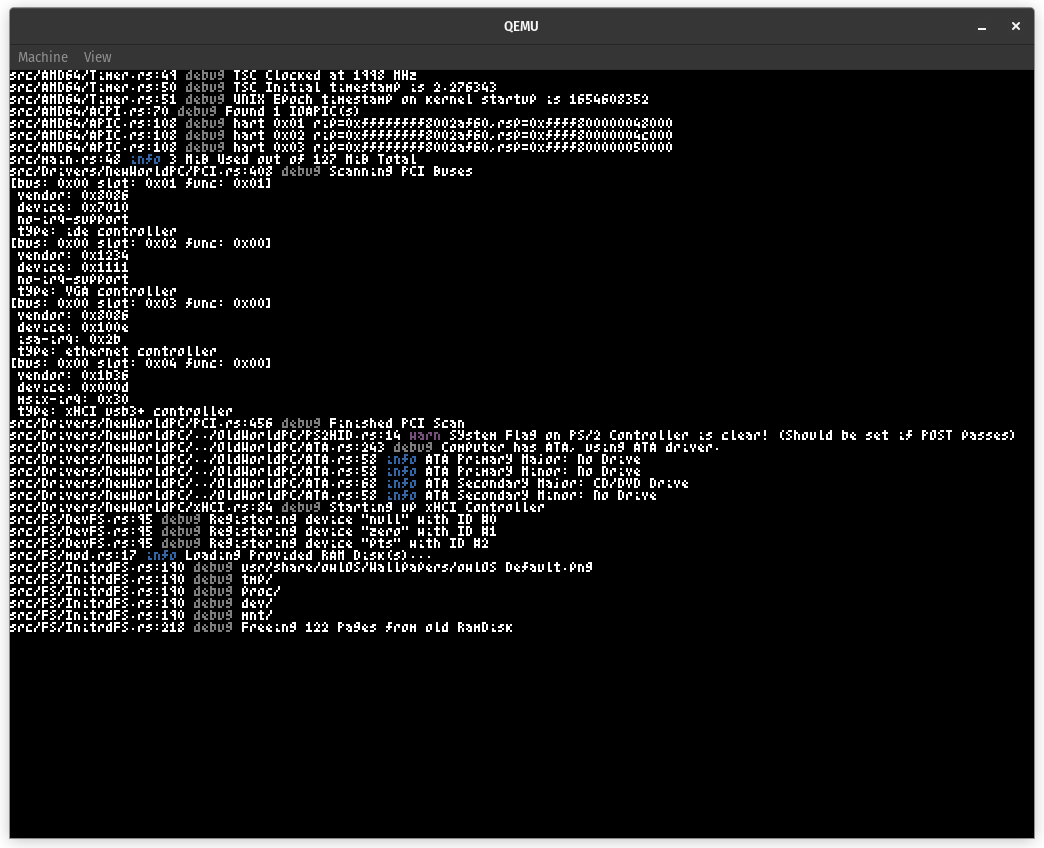
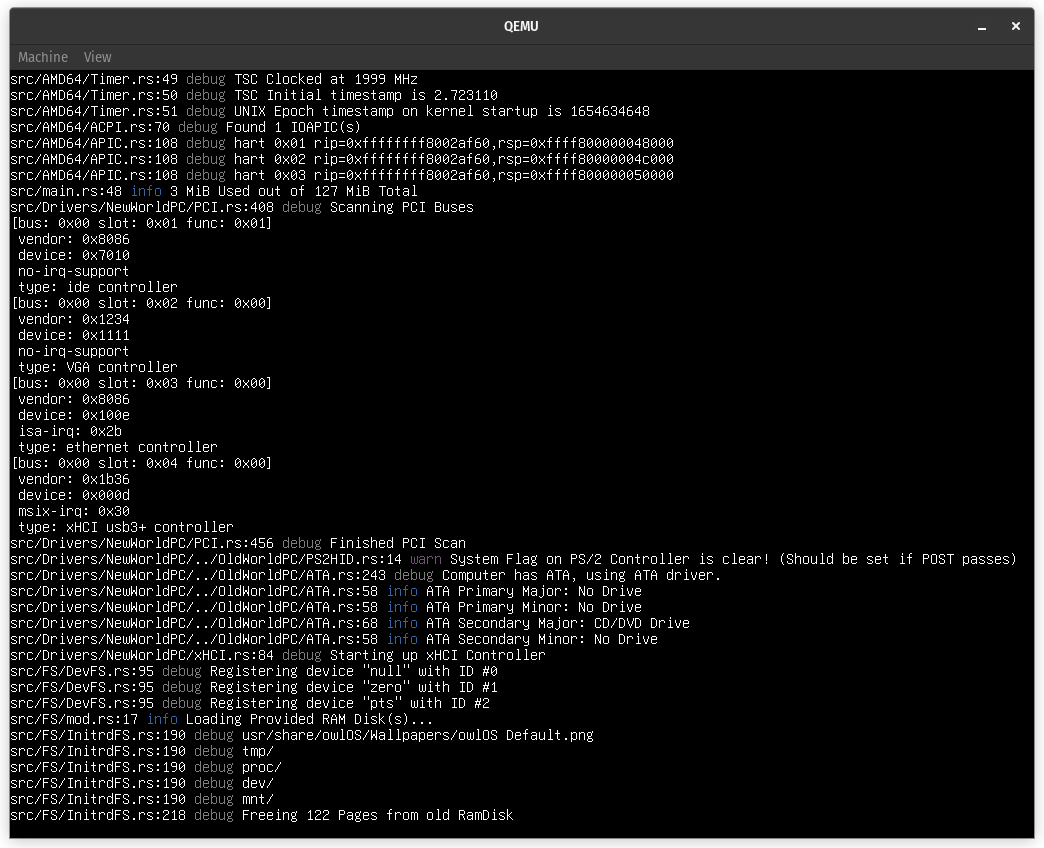
Fox Kernel: 3x6 font replaced with 8x16 font - The 3x6 font was replaced with a clearer 8x16 font - Updated Screenshot - Added parent_id to Process struct

diff --git a/Fox Kernel/src/Framebuffer.rs b/Fox Kernel/src/Framebuffer.rs
@@ -1,19 +1,6 @@
 use spin::mutex::Mutex;
 
-const FoxScript: [u16; 95] = [
-0x0000,0x2092,0x002d,0x5f7d,0x279e,0x52a5,0x7ad6,0x0012,
-0x4494,0x1491,0x0aba,0x05d0,0x1400,0x01c0,0x0400,0x12a4,
-0x2b6a,0x749a,0x752a,0x38a3,0x4f4a,0x38cf,0x3bce,0x12a7,
-0x3aae,0x49ae,0x0410,0x1410,0x4454,0x0e38,0x1511,0x10e3,
-0x73ee,0x5f7a,0x3beb,0x624e,0x3b6b,0x73cf,0x13cf,0x6b4e,
-0x5bed,0x7497,0x2b27,0x5add,0x7249,0x5b7d,0x5b6b,0x3b6e,
-0x12eb,0x4f6b,0x5aeb,0x388e,0x2497,0x6b6d,0x256d,0x5f6d,
-0x5aad,0x24ad,0x72a7,0x6496,0x4889,0x3493,0x002a,0xf000,
-0x0011,0x6b98,0x3b79,0x7270,0x7b74,0x6750,0x95d6,0xb9ee,
-0x5b59,0x6410,0xb482,0x56e8,0x6492,0x5be8,0x5b58,0x3b70,
-0x976a,0xcd6a,0x1370,0x38f0,0x64ba,0x3b68,0x2568,0x5f68,
-0x54a8,0xb9ad,0x73b8,0x64d6,0x2492,0x3593,0x03e0,
-];
+const FoxScript: &[u8; 4096] = include_bytes!("FoxScript");
 
 pub static MainFramebuffer: Mutex<Option<Framebuffer>> = Mutex::new(None);
 
@@ -51,11 +38,11 @@ impl Framebuffer {
         self.DrawRect(0,0,self.width,self.height,color);
     }
     pub fn DrawSymbol(&mut self, x: usize, y: usize, sym: u8, color: u32, scale: usize) {
-        let index: usize = (sym - b' ') as usize;
-        for i in 0..5 { // y
-            for j in 0..3 { // x
-                if (FoxScript[index] >> (i*3+j)) & 1 == 1 {
-                    self.DrawRect(x+j*scale,y+i*scale,scale,scale,color);
+        for i in 0..16 { // y
+            let row = FoxScript[(sym as usize*16)+i];
+            for j in 0..8 { // x
+                if (row & (1 << j)) != 0 {
+                    self.DrawRect(x+(7-j)*scale,y+i*scale,scale,scale,color);
                 }
             }
         }
@@ -64,12 +51,12 @@ impl Framebuffer {
         let mut index = 0;
         let mut yindex = 0;
         for b in s.bytes() {
-            if x+(index*(4*scale))+(4*scale) >= self.width || b == b'\n'{
+            if x+(index*(8*scale))+(8*scale) >= self.width || b == b'\n' {
                 index = 0;
-                yindex += scale*6;
+                yindex += scale*16;
             }
             if b >= 32 {
-                self.DrawSymbol(x + (index * (4*scale)), y + yindex, b, color, scale);
+                self.DrawSymbol(x + (index * (8*scale)), y + yindex, b, color, scale);
                 index += 1;
             }
         }

diff --git a/Fox Kernel/src/Console.rs b/Fox Kernel/src/Console.rs
@@ -44,20 +44,20 @@ impl core::fmt::Write for Writer {
             let fb = lock.as_mut().unwrap();
             let mut ansi_seq: Vec<u8> = Vec::new();
             let mut parse_ansi = false;
-            let console_height = fb.height.div_floor(6*2) * (6*2);
+            let console_height = fb.height.div_floor(16) * 16;
             for b in s.bytes() {
-                if self.cursor_x*(4*2) >= (fb.width/(4*2))*(4*2) || b == b'\n' {
+                if self.cursor_x*8 >= fb.width.div_floor(8)*8 || b == b'\n' {
                     self.cursor_x = 0;
-                    if self.cursor_y*(6*2) >= console_height-(6*2) {
+                    if self.cursor_y*16 >= console_height-16 {
                         self.cursor_y = 0;
                     } else {
                         self.cursor_y += 1;
                     }
-                    fb.DrawRect(0, self.cursor_y*(6*2), fb.width, 6*2, 0x000000);
+                    fb.DrawRect(0, self.cursor_y*16, fb.width, 16, 0x000000);
                 }
                 if b >= 32 && b <= 127 {
                     if !parse_ansi {
-                        fb.DrawSymbol(self.cursor_x*(4*2), self.cursor_y*(6*2), b, self.text_color, 2);
+                        fb.DrawSymbol(self.cursor_x*8, self.cursor_y*16, b, self.text_color, 1);
                         self.cursor_x += 1;
                     } else {
                         if b == b'm' {

diff --git a/Fox Kernel/src/Process.rs b/Fox Kernel/src/Process.rs
@@ -47,6 +47,7 @@ pub trait TaskFloatState: Send + Sync {
 
 pub struct Process {
     pub id: i32,
+    pub parent_id: i32,
 
     pub task_state: State,
     pub task_fpstate: FloatState,
@@ -68,10 +69,11 @@ pub struct Process {
 pub const USERSPACE_STACK_SIZE: u64 = 0x4000;
 
 impl Process {
-    pub fn new(name: String) -> Self {
+    pub fn new(name: String, parent: i32) -> Self {
         let state = State::new(false);
         Self {
             id: i32::MIN,
+            parent_id: parent,
 
             task_state: state,
             task_fpstate: FloatState::new(),
@@ -166,6 +168,7 @@ impl Process {
         task_state.SetSC0(0);
         Self {
             id: i32::MIN,
+            parent_id: self.id,
 
             task_state,
             task_fpstate: self.task_fpstate.Clone(),
